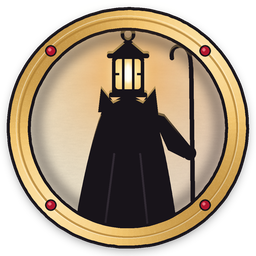
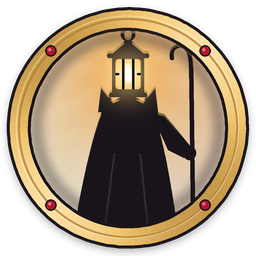
WIP: gauge and token art in progress
Claude-Session: https://claude.ai/code/session_012SWazPkfVbQK2jbJJ3cP8w

Changed region(s): [[0.375, 0.1562, 0.625, 0.4375]]

diff --git a/tools/art/pieces/tokens.py b/tools/art/pieces/tokens.py
@@ -638,8 +638,8 @@ def badge(kind):
         img = comp(img, paper_fill(size, field, rng, base=(240, 228, 204), amount=0.22))
         img = comp(img, clip(solid(size, DUSK, linear_light(size, 90).point(lambda v: int(max(0, v - 120) * 0.55))), field))
         lantern_c = P(0, -54)
-        warm = radial_light(size, lantern_c, 120 * F, power=1.4)
-        img = comp(img, clip(solid(size, (238, 166, 76), scale_l(warm, 0.7)), field))
+        warm = radial_light(size, lantern_c, 130 * F, power=1.2)
+        img = comp(img, clip(solid(size, (238, 166, 76), scale_l(warm, 0.9)), field))
         rays = Image.new("L", size, 0)
         rd = ImageDraw.Draw(rays)
         for k in range(10):
@@ -672,6 +672,9 @@ def badge(kind):
         img = comp(img, glow(glass, (240, 150, 60), 26 * F, 1.5), glow(glass, GOLD, 12 * F, 1.4), glow(glass, GOLD_CORE, 6 * F, 1.2))
         fig = ImageChops.multiply(fig, field)
         img = comp(img, solid(size, INK, fig))
+        # the lantern's halo spills over the hood and shoulders, so the head reads as a light at token size
+        halo = ImageChops.multiply(glow(glass, GOLD, 16 * F, 2.2).getchannel("A"), field)
+        img = comp(img, solid(size, (250, 206, 120), scale_l(halo, 0.75)))
         # lamplight catching the top edges of the shoulders and collar
         rim = ImageChops.multiply(ImageChops.subtract(fig, shift(fig, 0, 2.5 * F)), radial_light(size, lantern_c, 80 * F, power=0.8))
         img = comp(img, solid(size, GOLD, rim))
@@ -1043,12 +1046,15 @@ def crack_sprite(opened):
     n = len(M) - 1
     img = canvas(*size)
     if not opened:
-        widths = [(0.8 + 2.4 * math.sin(math.pi * (i + 0.5) / n) ** 0.8) * F for i in range(n)]
+        # thick enough to read at token size: a dark seam with a pale lip on its lower side and a faint dust halo
+        widths = [(1.6 + 4.6 * math.sin(math.pi * (i + 0.5) / n) ** 0.8) * F for i in range(n)]
         line = taper_mask(size, M, widths)
-        bl = union(*[taper_mask(size, [(x * F, y * F) for x, y in b], [(1.4 - 0.9 * k / len(b)) * F for k in range(len(b) - 1)]) for b in branches])
+        bl = union(*[taper_mask(size, [(x * F, y * F) for x, y in b], [(2.8 - 2.0 * k / len(b)) * F for k in range(len(b) - 1)]) for b in branches])
         allc = union(line, bl)
-        img = comp(img, solid(size, BONE, scale_l(shift(allc, 1.2 * F, 1.4 * F), 0.55)))
+        img = comp(img, solid(size, PAPER, scale_l(grow(allc, 5 * F).filter(ImageFilter.GaussianBlur(4 * F)), 0.35)))
+        img = comp(img, solid(size, BONE, scale_l(shift(grow(allc, 1.2 * F), 1.6 * F, 2.0 * F), 0.85)))
         img = comp(img, solid(size, INK, allc))
+        img = comp(img, solid(size, (70, 40, 54), scale_l(shrink(line, 1.4 * F), 0.8)))
         chips = Image.new("L", size, 0)
         for i in range(6):
             x, y = M[int(rng.uniform(0.3, 0.7) * n)]
